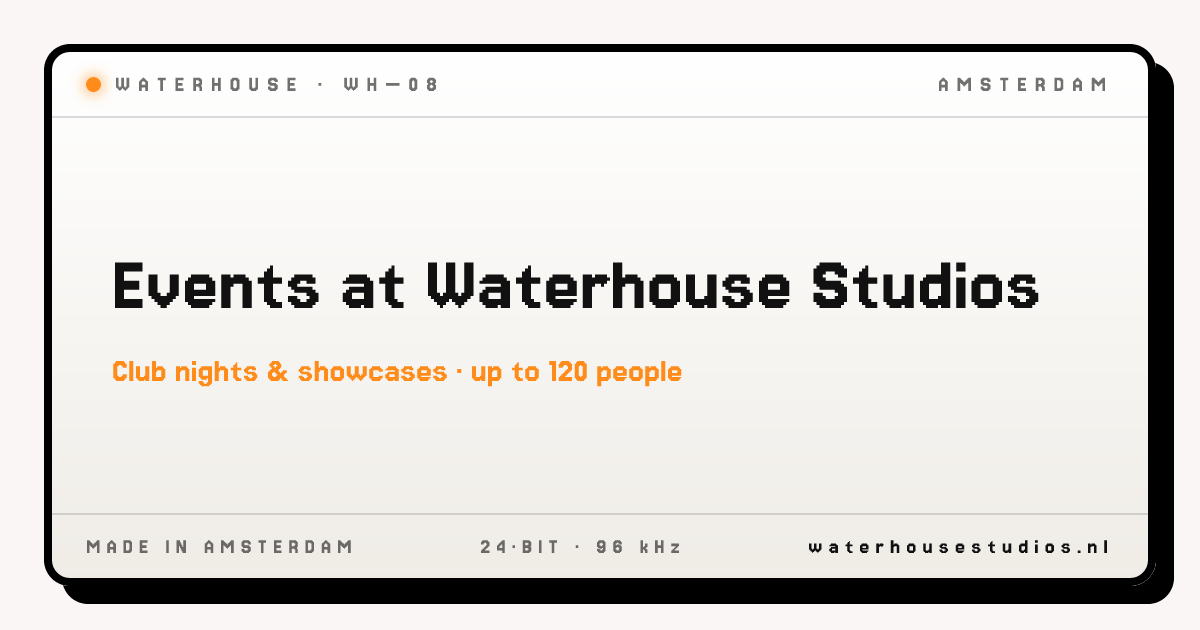
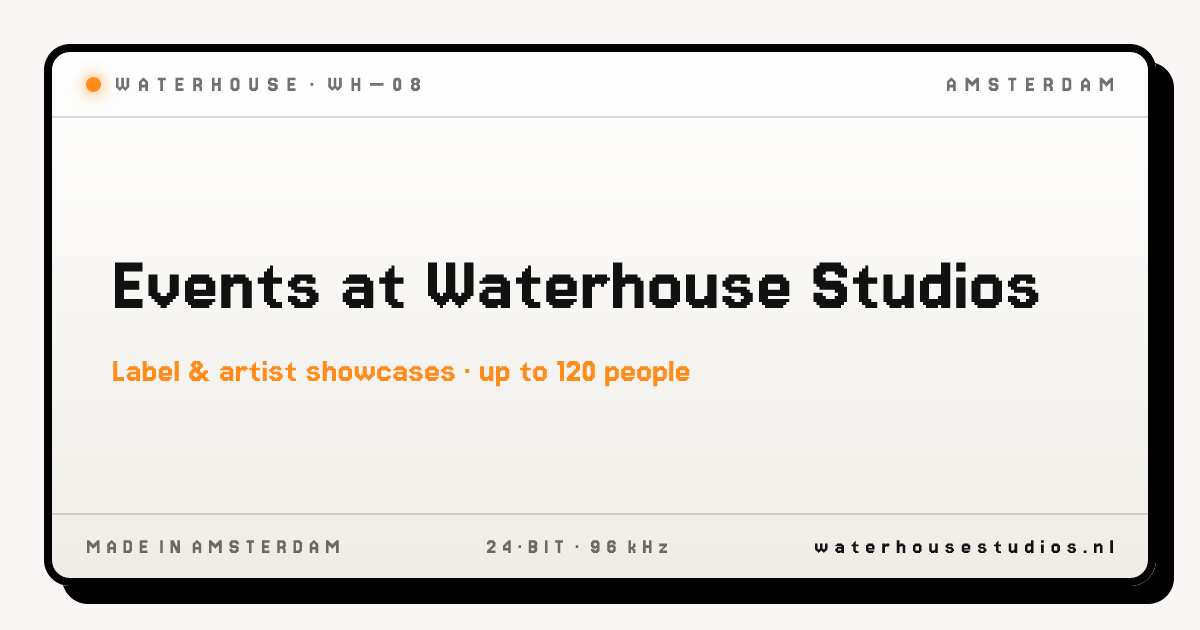
waterhouse-landing-19: drop "club nights" from Events page copy
Waterhouse Studios does not host club nights. Removed the phrase from the
Events page body copy and its SEO/OG description.

Also found the same claim in the events OG card subtitle
("Club nights & showcases") generated by scripts/og/generate.mjs — updated
it to "Label & artist showcases" and regenerated static/og/events.png only.

Claude-Session: https://claude.ai/code/session_016k3U2nVimB8TMN7Xn6Hukf

diff --git a/src/routes/events/+page.svelte b/src/routes/events/+page.svelte
@@ -10,7 +10,7 @@
 <Seo
 	title="Events at Waterhouse Studios Amsterdam"
 	image="/og/events.png"
-	description="Waterhouse Studios hosts club nights, showcases and live events for up to {SITE.facts.eventCapacity} people in Amsterdam's Houthaven. Find our lineups on Resident Advisor and DICE, and catch every set live on the stream."
+	description="Waterhouse Studios hosts label showcases, artist showcases and live events for up to {SITE.facts.eventCapacity} people in Amsterdam's Houthaven. Find our lineups on Resident Advisor and DICE, and catch every set live on the stream."
 />
 <JsonLd schema={graph(breadcrumb([{ name: 'Events', path: '/events' }]))} />
 
@@ -26,9 +26,8 @@
 
 		<p class="mb-8 max-w-3xl text-xl leading-relaxed">
 			Waterhouse Studios is a music venue and event space in Amsterdam's Houthaven with capacity for
-			up to {SITE.facts.eventCapacity} people. We host club nights, label showcases and artist
-			showcases — including recurring resident series — and broadcast many of them live on Waterhouse
-			Radio.
+			up to {SITE.facts.eventCapacity} people. We host label showcases and artist showcases — including
+			recurring resident series — and broadcast many of them live on Waterhouse Radio.
 		</p>
 
 		<section class="mb-12 grid gap-6 md:grid-cols-2">
